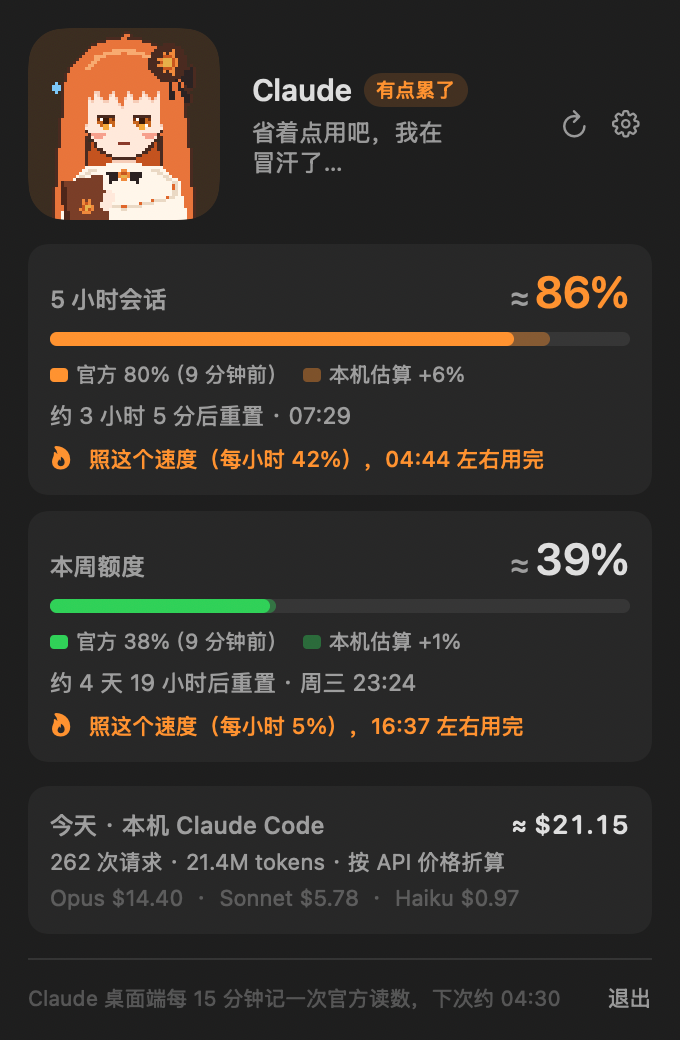
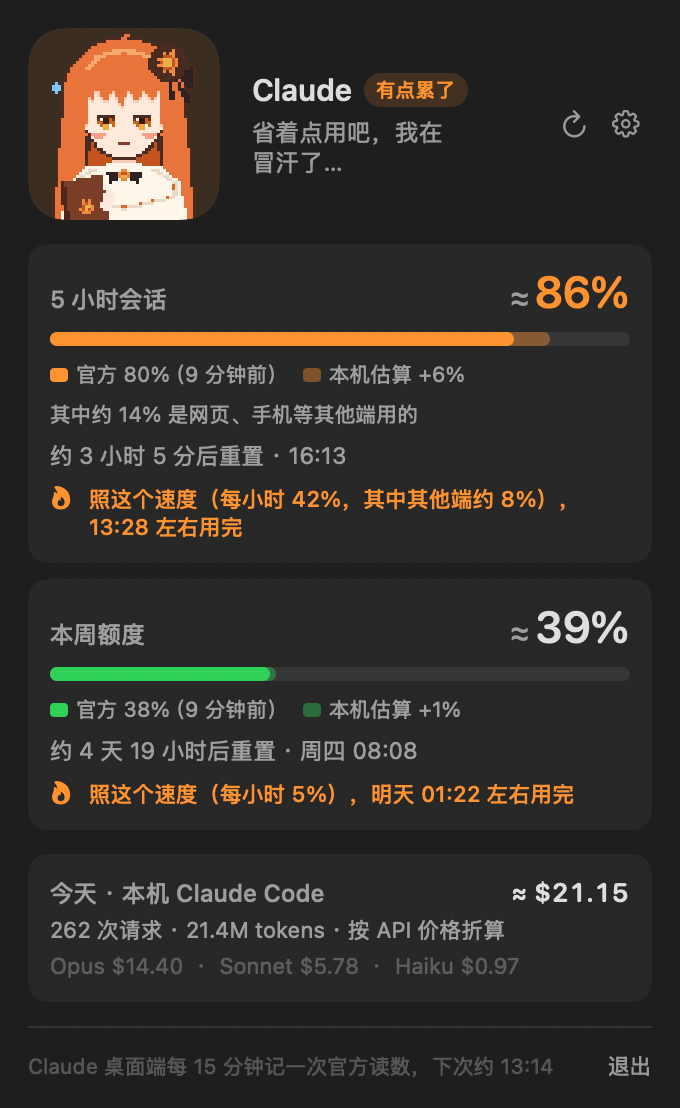
显示看不见的其他端用量
- 按相邻两次官方读数，把官方增量里本机 Claude Code 日志解释不了的部分算作其他端（网页、手机、桌面端聊天）用量；本机同时在用时要多出门槛才算，服务器计数延迟留 5 分钟余量
- 面板标出每个窗口里其他端用了多少，消耗速度和「几点用完」也算上这部分
- 学换算率时跳过同时在其他端用过的区间；usage_lab.py 同步门槛，backtest 和 App 的学法一致
- 窗口开始前没有 0 的官方读数时，从窗口里第一次读数算起，不把推算偏晚的开始之前的用量当成其他端
- 更新 README 的面板截图（假数据）

diff --git a/QuotaPet/Sources/QuotaPetChecks/main.swift b/QuotaPet/Sources/QuotaPetChecks/main.swift
@@ -253,6 +253,49 @@ do {
     check(manual.startedAt == at(23, 18) && manual.resetsAt == at(30, 18), "手动指定的每周重置时间每 7 天循环")
 }
 
+// MARK: - 其他端用量
+
+do {
+    /// 值 pct 个百分点的请求（percentOf = usd × 100）
+    func req(_ t: Date, _ pct: Double) -> ClaudeRequest {
+        ClaudeRequest(id: UUID().uuidString, time: t, family: .opus, tokens: TokenCounts(output: Int(pct * 500)))
+    }
+    let percentOf: (ClaudeRequest) -> Double = { $0.usd * 100 }
+    let reqs = [req(at(20, 10), 3), req(at(20, 10, 38), 5), req(at(20, 11, 15), 2)]
+    let readings = [S(time: at(20, 10, 10), value: 3), S(time: at(20, 10, 25), value: 9), S(time: at(20, 10, 40), value: 15),
+                    S(time: at(20, 10, 55), value: 16), S(time: at(20, 11, 10), value: 20), S(time: at(20, 11, 25), value: 30)]
+    let segments = OtherUsage.segments(start: at(20, 10), readings: readings, requests: reqs, percentOf: percentOf)
+    // 10:10 本机 3 对上；10:25 本机没有请求，+6 全是其他端；10:40 本机 5、官方 6，差 1 是误差；
+    // 10:55 +1 紧跟在 10:38 的请求后面，是服务器计数慢；11:10 本机没有请求，+4；11:25 本机 2、官方 10，多出 8
+    check(segments.count == 3 && zip(segments, [6.0, 4, 8]).allSatisfy { near($0.percent, $1) } && segments.first?.start == at(20, 10, 10),
+          "逐段找出其他端用量：\(segments.map(\.percent))")
+    check(near(OtherUsage.burnPerHour(segments, from: at(20, 10, 55), now: at(20, 11, 25), minSpan: 600), 24, 1e-6),
+          "其他端每小时：半小时里 4 + 8 = 12")
+    check(near(OtherUsage.burnPerHour(segments, from: at(20, 11), now: at(20, 11, 30), minSpan: 600), 21.3333, 1e-3),
+          "跨边界的段按时间比例摊，最近一次读数之后看不到的按 0 算：(4 × 2/3 + 8) ÷ 30 分钟")
+    let wobble = [S(time: at(20, 10, 10), value: 5), S(time: at(20, 10, 25), value: 3), S(time: at(20, 10, 40), value: 5)]
+    let wobbled = OtherUsage.segments(start: at(20, 10), readings: wobble, requests: [], percentOf: percentOf)
+    check(wobbled.count == 1 && near(wobbled.first?.percent, 5), "读数往回掉又回来，不算新用量")
+    let twin = OtherUsage.segments(start: at(20, 10), readings: [S(time: at(20, 10, 10), value: 3), S(time: at(20, 10, 10), value: 5)],
+                                   requests: [], percentOf: percentOf)
+    check(twin.count == 1 && OtherUsage.burnPerHour(twin, from: at(20, 10), now: at(20, 10, 30), minSpan: 600).isFinite,
+          "同一时刻的两条读数不会产生长度为 0 的段")
+
+    let provider = ClaudeProvider(historyURL: URL(fileURLWithPath: "/nonexistent/h.json"),
+                                  projectsURL: URL(fileURLWithPath: "/nonexistent/projects"), archiveURL: nil)
+    func window(_ series: [S], live: Bool = true) -> UsageWindow {
+        provider.buildWindow(id: "five_hour", title: "", shortTitle: "", duration: fiveHours, series: series,
+                             requests: [reqs[0]], scale: 1, percentOf: percentOf, resetAnchor: nil, live: live, now: at(20, 10, 30))
+    }
+    let zero = [S(time: at(20, 9, 30), value: 0)]  // 窗口开始前读数确实是 0
+    let w = window(zero + [S(time: at(20, 10, 10), value: 10), S(time: at(20, 10, 25), value: 16)])
+    check(near(w.otherPercent, 13) && near(w.otherBurnPerHour, 26, 1e-6) && near(w.burnPerHour, 26, 1e-6),
+          "从 0 算起：10:10 本机 3、官方 10，多 7；10:25 本机没有请求，+6；速度 13 ÷ 30 分钟：\(w.otherPercent) \(w.burnPerHour ?? -1)")
+    let midway = window([S(time: at(20, 10, 10), value: 40), S(time: at(20, 10, 25), value: 46)])
+    check(near(midway.otherPercent, 6), "开始前没有 0 的读数（记录从窗口中间开始）：第一次读数之前的 40% 不算其他端：\(midway.otherPercent)")
+    check(window(zero + Array(readings.prefix(2)), live: false).otherPercent == 0, "关掉实时估算时也不算其他端")
+}
+
 // MARK: - 什么时候显示
 
 check(MenuBarVisibility.withClaude.shouldShow(claudeRunning: true, pinned: false), "Claude 开着就显示")
@@ -302,6 +345,11 @@ do {
     older.end = at(25, 4)  // 早 6 小时 = 两个半衰期，权重 1/4：(0.5 + 0.8) ÷ (1 + 4)
     let halfLife = RateLearner.learn([older, newer], delta: \.sessionDelta, prior: 0.31, priorUSD: 0.0001)
     check(near(halfLife.usdPerPercent, 0.26, 1e-4), "半衰期 3 小时：\(halfLife.usdPerPercent)")
+    var pure = intervals[0], mixed = intervals[1]
+    pure.end = at(25, 10); pure.usd = 3; pure.sessionFrom = 0; pure.sessionTo = 10           // $0.3 / 1%
+    mixed.end = at(25, 10, 15); mixed.usd = 0.3; mixed.sessionFrom = 10; mixed.sessionTo = 20 // 本机只够 1%，官方涨了 10%
+    let skip = RateLearner.learn([pure, mixed], delta: \.sessionDelta, prior: 0.31, priorUSD: 0.0001)
+    check(near(skip.usdPerPercent, 0.3, 1e-3) && skip.intervals == 1, "同时在其他端用过的区间不拿来学：\(skip)")
 
     let dir = FileManager.default.temporaryDirectory.appendingPathComponent("quotapet-archive-\(UUID().uuidString)")
     let url = dir.appendingPathComponent("intervals.jsonl")

diff --git a/QuotaPet/Sources/QuotaPetCore/Claude/OtherUsage.swift b/QuotaPet/Sources/QuotaPetCore/Claude/OtherUsage.swift
@@ -1,0 +1,62 @@
+import Foundation
+
+/// 其他端用量：官方读数涨了、本机 Claude Code 日志却解释不了的部分，也就是网页、手机、桌面端聊天等的用量。
+///
+/// 按相邻两次官方读数逐段算「官方增量 − 这段时间本机请求的估算」。官方读数是整数、估算也有误差，所以：
+/// - 这段时间里（连同开始前 5 分钟，服务器计数可能慢一点）本机一个请求都没有：官方涨多少都算其他端；
+/// - 否则要多出 threshold 以上才算，免得把取整和估算误差当成其他端。
+/// 用真实数据看过：只用 Claude Code 的时段里，逐段的差值都在这个门槛以内。
+public enum OtherUsage {
+    public struct Segment: Equatable, Sendable {
+        public var start: Date
+        public var end: Date
+        /// 这一段里其他端用了多少个百分点
+        public var percent: Double
+    }
+
+    /// 本机有请求时，官方增量要比本机估算多出这么多才算其他端：取整误差 ±1，估算误差约 20%。
+    /// 与 usage_lab.py 的 OTHER_THRESHOLD 一致
+    public static func threshold(local: Double) -> Double { 2 + 0.2 * local }
+
+    /// 服务器计数可能比请求慢一点：这么久以内的本机请求，也可能算进下一段
+    static let lag: TimeInterval = 5 * 60
+
+    /// 从 start（那时读数是 startValue）往后，逐段比较 readings（按时间排序，都在 start 之后）。
+    /// start 是窗口开始时（0），开启窗口的那个请求也算进第一段。requests 按时间排序，percentOf 把一个请求换算成这个窗口的百分点
+    static func segments(start: Date, startValue: Double = 0, readings: [UsageSample], requests: [ClaudeRequest],
+                         percentOf: (ClaudeRequest) -> Double) -> [Segment] {
+        var result: [Segment] = []
+        var from = start
+        var high = startValue  // 读数偶尔会往回掉一点（取整），按最高的算，免得回升时被当成新用量
+        var lo = 0
+        for reading in readings where reading.time > from {  // 时间戳重复的读数跳过，不然会出现长度为 0 的段
+            while lo < requests.count, requests[lo].time <= from.addingTimeInterval(-lag) { lo += 1 }
+            var local = 0.0
+            var nearby = false
+            var i = lo
+            while i < requests.count, requests[i].time <= reading.time {
+                nearby = true
+                // 第一段包含开启窗口的那个请求
+                if requests[i].time > from || (from == start && requests[i].time == start) { local += percentOf(requests[i]) }
+                i += 1
+            }
+            let excess = reading.value - high - local
+            if excess > (nearby ? threshold(local: local) : 0.5) {
+                result.append(Segment(start: from, end: reading.time, percent: excess))
+            }
+            from = reading.time
+            high = max(high, reading.value)
+        }
+        return result
+    }
+
+    /// [from, now] 这段时间里其他端每小时用多少个百分点，和本机的消耗速度一样按整段时间平均。
+    /// 最近一次官方读数之后的其他端用量还看不到，按 0 算；跨过 from 的段按时间比例摊；时间太短时至少按 minSpan 算
+    static func burnPerHour(_ segments: [Segment], from: Date, now: Date, minSpan: TimeInterval) -> Double {
+        var sum = 0.0
+        for s in segments where s.end > from {
+            sum += s.percent * s.end.timeIntervalSince(max(s.start, from)) / s.end.timeIntervalSince(s.start)
+        }
+        return sum * 3600 / max(now.timeIntervalSince(from), minSpan)
+    }
+}

diff --git a/QuotaPet/Sources/QuotaPetCore/Claude/ClaudeProvider.swift b/QuotaPet/Sources/QuotaPetCore/Claude/ClaudeProvider.swift
@@ -198,17 +198,36 @@ public final class ClaudeProvider: UsageProvider, @unchecked Sendable {
             percent = min(percent, 99)
         }
 
+        // 其他端用量：当前窗口里官方读数涨了、本机日志解释不了的部分
+        var other: [OtherUsage.Segment] = []
+        if live, let window = current {
+            let readings = series.filter { $0.time > window.start && $0.time <= now }
+            let local: (ClaudeRequest) -> Double = { percentOf($0) * scale }
+            // 窗口开始时是 0 只是推算的：开始前最后一次官方读数确实是 0 才从窗口开始算；不然从窗口里第一次读数算起，
+            // 免得窗口开始推算得偏晚（比如桌面端的记录是从一周中间开始的）时，把之前的用量都当成其他端
+            if let first = readings.first, series.last(where: { $0.time <= window.start })?.value != 0 {
+                other = OtherUsage.segments(start: first.time, startValue: first.value, readings: Array(readings.dropFirst()),
+                                            requests: requests, percentOf: local)
+            } else {
+                other = OtherUsage.segments(start: window.start, readings: readings, requests: requests, percentOf: local)
+            }
+        }
+
         // 5 小时窗口看最近 30 分钟的速度；每周窗口看最近 24 小时，不然一会儿猛用就会误报「几小时后用完」
         let lookback: TimeInterval = duration > 86400 ? 86400 : 1800
         var burn: Double?
+        var otherBurn: Double?
         if live {
             let from = max(now.addingTimeInterval(-lookback), current?.start ?? .distantPast)
-            burn = added(after: from) * 3600 / max(now.timeIntervalSince(from), lookback / 3)
+            let otherPerHour = OtherUsage.burnPerHour(other, from: from, now: now, minSpan: lookback / 3)
+            otherBurn = otherPerHour
+            burn = added(after: from) * 3600 / max(now.timeIntervalSince(from), lookback / 3) + otherPerHour
         }
 
         return UsageWindow(id: id, title: title, shortTitle: shortTitle, duration: duration, percent: percent,
                            official: official, officialAt: officialAt, limitReported: limitReported, startedAt: current?.start,
-                           resetsAt: current?.end, burnPerHour: burn, burnLookback: lookback)
+                           resetsAt: current?.end, otherPercent: other.reduce(0) { $0 + $1.percent },
+                           burnPerHour: burn, otherBurnPerHour: otherBurn, burnLookback: lookback)
     }
 
     func todaySummary(_ requests: [ClaudeRequest], now: Date) -> ActivitySummary {

diff --git a/QuotaPet/Sources/QuotaPetCore/Claude/RateLearner.swift b/QuotaPet/Sources/QuotaPetCore/Claude/RateLearner.swift
@@ -4,7 +4,7 @@ import Foundation
 ///
 /// 换算率 = Σ 权重 × 本机额度加权花费 ÷ Σ 权重 × 官方增量：
 /// - 只用本机确实在用（≥ $0.02）、中间没有重置的区间；纯网页端的区间没有本机花费，自动排除。
-///   旧版本记下的、没有缓存读花费的区间也不用。
+///   同时在其他端用过、官方涨得明显比本机多的区间，以及旧版本记下的、没有缓存读花费的区间也不用。
 /// - 越近的区间权重越大（半衰期 3 小时）：同一个会话里换算率也会慢慢变，要跟得上。
 ///   回测（usage_lab.py backtest）：半衰期 3 小时比 2 天的误差小，往回跳的次数也少。
 ///   时间从最近一个区间往前算，隔几天不用也不会把学到的忘掉。
@@ -28,14 +28,21 @@ public enum RateLearner {
         guard let latest = usable.map(\.end).max() else {
             return Result(usdPerPercent: prior, intervals: 0, latest: nil)
         }
-        var cost = priorUSD
-        var gained = priorUSD / prior
-        for item in usable {
-            let weight = pow(0.5, latest.timeIntervalSince(item.end) / halfLife)
-            cost += weight * item.usd
-            gained += weight * item.delta
+        func fit(_ items: [(end: Date, usd: Double, delta: Double)]) -> Double {
+            var cost = priorUSD
+            var gained = priorUSD / prior
+            for item in items {
+                let weight = pow(0.5, latest.timeIntervalSince(item.end) / halfLife)
+                cost += weight * item.usd
+                gained += weight * item.delta
+            }
+            return gained > 0 ? cost / gained : prior
         }
-        let rate = gained > 0 ? cost / gained : prior
-        return Result(usdPerPercent: min(max(rate, prior / 10), prior * 10), intervals: usable.count, latest: latest)
+        // 同时在网页 / 手机上用过的区间，官方涨得比本机花费能解释的多一截（见 OtherUsage），不能拿来学：
+        // 先粗算一次，去掉这种区间再算
+        let rough = fit(usable)
+        let clean = usable.filter { $0.delta - $0.usd / rough <= OtherUsage.threshold(local: $0.usd / rough) }
+        let rate = clean.isEmpty ? rough : fit(clean)
+        return Result(usdPerPercent: min(max(rate, prior / 10), prior * 10), intervals: clean.count, latest: latest)
     }
 }

diff --git a/QuotaPet/Sources/QuotaPet/Tools/PreviewRenderer.swift b/QuotaPet/Sources/QuotaPet/Tools/PreviewRenderer.swift
@@ -139,10 +139,10 @@ enum PreviewRenderer {
 
     static func sampleSnapshots(now: Date) -> [(String, UsageSnapshot)] {
         func window(_ id: String, _ title: String, _ duration: TimeInterval, _ percent: Double, official: Double,
-                    resetIn: TimeInterval, burn: Double) -> UsageWindow {
+                    resetIn: TimeInterval, burn: Double, other: Double = 0, otherBurn: Double? = nil) -> UsageWindow {
             UsageWindow(id: id, title: title, shortTitle: "", duration: duration, percent: percent, official: official,
                         officialAt: now.addingTimeInterval(-9 * 60), startedAt: now.addingTimeInterval(resetIn - duration),
-                        resetsAt: now.addingTimeInterval(resetIn), burnPerHour: burn,
+                        resetsAt: now.addingTimeInterval(resetIn), otherPercent: other, burnPerHour: burn, otherBurnPerHour: otherBurn,
                         burnLookback: duration > 86400 ? 86400 : 1800)
         }
         let today = ActivitySummary(
@@ -158,7 +158,8 @@ enum PreviewRenderer {
         return [
             ("calm", snapshot([window("five_hour", "5 小时会话", 5 * 3600, 27.3, official: 24, resetIn: 2 * 3600 + 14 * 60, burn: 6),
                                window("seven_day", "本周额度", week, 25.4, official: 25, resetIn: 4 * 86400 + 19 * 3600, burn: 0.7)])),
-            ("busy", snapshot([window("five_hour", "5 小时会话", 5 * 3600, 86.2, official: 80, resetIn: 3 * 3600 + 5 * 60, burn: 42),
+            ("busy", snapshot([window("five_hour", "5 小时会话", 5 * 3600, 86.2, official: 80, resetIn: 3 * 3600 + 5 * 60, burn: 42,
+                                     other: 14, otherBurn: 8),
                                window("seven_day", "本周额度", week, 38.9, official: 38, resetIn: 4 * 86400 + 19 * 3600, burn: 5)])),
             ("limited", snapshot([window("five_hour", "5 小时会话", 5 * 3600, 100, official: 100, resetIn: 83 * 60, burn: 0),
                                   window("seven_day", "本周额度", week, 47, official: 47, resetIn: 4 * 86400 + 19 * 3600, burn: 0)])),

diff --git a/QuotaPet/Sources/QuotaPet/Views/OverviewView.swift b/QuotaPet/Sources/QuotaPet/Views/OverviewView.swift
@@ -152,23 +152,34 @@ struct WindowCard: View {
             UsageBar(percent: window.clampedPercent, official: window.official, tint: Level.bar(window.percent))
                 .padding(.bottom, 1)
             legend
+            if window.otherPercent >= 1 {
+                Text("其中约 \(Int(window.otherPercent.rounded()))% 是网页、手机等其他端用的")
+                    .font(.system(size: 10.5))
+                    .foregroundStyle(.secondary)
+            }
             Text(resetText)
                 .font(.system(size: 11.5))
                 .foregroundStyle(.secondary)
             if let exhaustion = window.projectedExhaustion(now: now), let burn = window.burnPerHour {
-                Label("照这个速度（每小时 \(Int(burn.rounded()))%），\(Fmt.clock(exhaustion, now: now)) 左右用完",
+                Label("照这个速度（每小时 \(Int(burn.rounded()))%\(otherBurnText)），\(Fmt.clock(exhaustion, now: now)) 左右用完",
                       systemImage: "flame.fill")
                     .font(.system(size: 11, weight: .medium))
                     .foregroundStyle(Color(nsColor: .systemOrange))
                     .fixedSize(horizontal: false, vertical: true)
             } else if let burn = window.burnPerHour, burn >= 1, window.percent < 100 {
-                Text("\(lookbackText)：每小时约 \(Int(burn.rounded()))%")
+                Text("\(lookbackText)：每小时约 \(Int(burn.rounded()))%\(otherBurnText)")
                     .font(.system(size: 11))
                     .foregroundStyle(.secondary)
             }
         }
         .padding(11)
         .background(RoundedRectangle(cornerRadius: 10, style: .continuous).fill(Color.primary.opacity(0.05)))
+    }
+
+    /// 消耗速度里有其他端的部分时，补一句「，其中其他端约 6%」
+    private var otherBurnText: String {
+        guard let other = window.otherBurnPerHour, other >= 1 else { return "" }
+        return "，其中其他端约 \(Int(other.rounded()))%"
     }
 
     private var lookbackText: String {

diff --git a/QuotaPet/Sources/QuotaPetCore/Models.swift b/QuotaPet/Sources/QuotaPetCore/Models.swift
@@ -27,14 +27,19 @@ public struct UsageWindow: Identifiable, Equatable, Sendable {
     /// 当前窗口的开始 / 重置时间（推算值）；窗口还没开始时为 nil
     public var startedAt: Date?
     public var resetsAt: Date?
-    /// 最近一段时间（burnLookback）的消耗速度，百分点 / 小时（只统计本机 Claude Code）
+    /// 这个窗口里网页、手机、桌面端聊天等其他端用了多少（已经包含在官方读数里，见 OtherUsage）
+    public var otherPercent: Double
+    /// 最近一段时间（burnLookback）的消耗速度，百分点 / 小时：本机 Claude Code + 官方读数里看出来的其他端
     public var burnPerHour: Double?
+    /// burnPerHour 里其他端的部分
+    public var otherBurnPerHour: Double?
     /// 消耗速度按多长时间算：5 小时窗口看最近 30 分钟，每周窗口看最近 24 小时
     public var burnLookback: TimeInterval
 
     public init(id: String, title: String, shortTitle: String, duration: TimeInterval, percent: Double,
                 official: Double? = nil, officialAt: Date? = nil, limitReported: Bool = false, startedAt: Date? = nil,
-                resetsAt: Date? = nil, burnPerHour: Double? = nil, burnLookback: TimeInterval = 1800) {
+                resetsAt: Date? = nil, otherPercent: Double = 0, burnPerHour: Double? = nil, otherBurnPerHour: Double? = nil,
+                burnLookback: TimeInterval = 1800) {
         self.id = id
         self.title = title
         self.shortTitle = shortTitle
@@ -45,7 +50,9 @@ public struct UsageWindow: Identifiable, Equatable, Sendable {
         self.limitReported = limitReported
         self.startedAt = startedAt
         self.resetsAt = resetsAt
+        self.otherPercent = otherPercent
         self.burnPerHour = burnPerHour
+        self.otherBurnPerHour = otherBurnPerHour
         self.burnLookback = burnLookback
     }
 

diff --git a/QuotaPet/Sources/QuotaPet/Tools/DumpCommand.swift b/QuotaPet/Sources/QuotaPet/Tools/DumpCommand.swift
@@ -49,9 +49,13 @@ enum DumpCommand {
             } else {
                 print("  窗口还没开始（下次使用时开始计时）")
             }
+            if w.otherPercent >= 0.5 {
+                print(String(format: "  其中网页、手机等其他端约 %.1f%%", w.otherPercent))
+            }
             if let burn = w.burnPerHour, burn > 0 {
                 let span = w.burnLookback >= 86400 ? "24 小时" : "\(Int(w.burnLookback / 60)) 分钟"
-                print(String(format: "  最近 %@ 消耗速度 %.1f%%/小时", span, burn))
+                let other = (w.otherBurnPerHour ?? 0) >= 0.05 ? String(format: "（其中其他端 %.1f%%）", w.otherBurnPerHour ?? 0) : ""
+                print(String(format: "  最近 %@ 消耗速度 %.1f%%/小时", span, burn) + other)
             }
             if let t = w.projectedExhaustion(now: now) {
                 print("  ⚠ 照这个速度 \(Fmt.clock(t, now: now)) 会用完")

diff --git a/usage_lab.py b/usage_lab.py
@@ -41,6 +41,8 @@ PRICES = {
 CACHE_READ_WEIGHT = 0.5
 # 起始换算率，额度加权美元 / 1%（与 ClaudeRates.starting 一致）
 STARTING = {"fh": 0.27, "sd": 2.0}
+# 官方增量比本机估算多出 a + b×本机估算 才算其他端（网页 / 手机）用量（与 OtherUsage.threshold 一致）
+OTHER_THRESHOLD = (2, 0.2)
 FIELDS = ("inp", "cw5", "cw1h", "cr", "out")
 FIELD_NAMES = {"inp": "输入", "cw5": "缓存写5m", "cw1h": "缓存写1h", "cr": "缓存读", "out": "输出"}
 
@@ -259,7 +261,15 @@ def cmd_calibrate(args):
 
 def cmd_backtest(args):
     """每个 15 分钟区间结束时，用之前的区间学到的换算率估算这段的官方增量，和实际增量比。
-    学习方式同 RateLearner：Σ权重×加权花费 ÷ Σ权重×增量，权重按半衰期从最近一个区间往前算，加 $2 的先验。"""
+    学习方式同 RateLearner：Σ权重×加权花费 ÷ Σ权重×增量，权重按半衰期从最近一个区间往前算，加 $2 的先验；
+    先粗算一次，去掉同时在其他端用过（官方涨得明显比本机多）的区间再算。"""
+
+    def fit(items, prior, latest):
+        spent, gained = 2.0, 2.0 / prior
+        for end, u, d in items:
+            w = 0.5 ** ((latest - end) / (args.half_life * 3600))
+            spent, gained = spent + w * u, gained + w * d
+        return spent / gained
     reqs = load_requests()
     snaps = [s for s in load_snapshots() if s[3] == "desktop"]
     for col, name in ((1, "5 小时"), (2, "每周")):
@@ -272,11 +282,14 @@ def cmd_backtest(args):
             if sum(cost(f, t) for f, t in tok.items()) < 0.02:  # 本机没在用
                 continue
             usd = sum(quota_cost(f, t, args.cache_weight) for f, t in tok.items())
-            spent, gained = 2.0, 2.0 / prior
-            for end, u, d in done:
-                w = 0.5 ** ((done[-1][0] - end) / (args.half_life * 3600))
-                spent, gained = spent + w * u, gained + w * d
-            est, actual = usd / (spent / gained), b[col] - a[col]
+            rate = prior
+            if done:
+                rough = fit(done, prior, done[-1][0])
+                a0, b0 = OTHER_THRESHOLD
+                clean = [x for x in done if x[2] - x[1] / rough <= a0 + b0 * x[1] / rough]
+                rate = fit(clean, prior, done[-1][0]) if clean else rough
+                rate = min(max(rate, prior / 10), prior * 10)  # 和 App 一样限制在起始值的 1/10～10 倍
+            est, actual = usd / rate, b[col] - a[col]
             errs.append(abs(est - actual))
             stale.append(actual)
             down += actual - est < -1

diff --git a/docs/PRODUCT_PLAN.md b/docs/PRODUCT_PLAN.md
@@ -44,12 +44,13 @@
 |---|---|---|---|
 | 官方 5 小时 % / 每周 % | Claude 桌面端 `~/Library/Application Support/Claude/plan-usage-history.json` | 桌面端运行时每 15 分钟 | 整数，官方值 |
 | 两次官方读数之间的增量 | `~/.claude/projects/**/*.jsonl` 里 Claude Code 每个请求的 token | 实时（文件一变就重算） | 按自动学到的换算率折算的估算值 |
+| 其他端（网页 / 手机 / 桌面端聊天）用量 | 官方增量减去同一段时间的本机估算，多出门槛以上的部分 | 每次官方读数 | 估算值；本机同时在用时只认明显多出来的部分 |
 | 重置时间 | 用活动时间 + 读数跳变推算；Claude Code 被限流时用日志里的限流消息 | — | 推算约 ±15 分钟，限流消息是精确值；每周重置时间可手动指定 |
 
 - 菜单栏显示的数 = 最近一次官方读数 + 之后本机用量的估算，面板里用 `≈` 标出估算部分。
 - **换算率自动学习 + 持续记录**：每 15 分钟的区间都存进本机记录（`~/Library/Application Support/QuotaPet/intervals.jsonl`），从全部记录里学「多少美元 ≈ 1%」（美元按 API 价格算，但缓存读按半价），越近的权重越大（半衰期 3 小时）。重启、隔几天不用都不会忘；没有记录时用起始值 $0.27。
 - **只有官方读数或限流消息能宣布「用完了」**：官方读数没到 100% 之前，估算值最多显示 99%。Claude Code 被限流时会在日志里写一条带 `quotaLimits` 的消息（哪个额度、几点恢复），这是服务器的原话，读到就直接算用完。
-- 网页端和手机端的用量不在本机日志里，要等下一次官方读数（最多 15 分钟）才会体现。
+- 网页端和手机端的用量不在本机日志里，要等下一次官方读数（最多 15 分钟）才会体现。读数到了以后，官方增量里本机日志解释不了的部分算作「其他端」用量：面板会标出每个窗口里其他端用了多少，消耗速度和「几点用完」也会算上它。
 - 备选方案（暂不做）：用 Claude Code 的登录凭据调官方 usage 接口，能拿到精确值和重置时间，但要读凭据，和原则 2 冲突。以后如果要做，也只做成用户主动开启的选项。
 
 ## 5. 版本路线
@@ -103,6 +104,12 @@
 - 缓存读在额度里大约只算 API 价格的一半，所以按 0.5 倍计（0.4–0.6 之间结果差不多）。缓存读和上下文长度是一起涨的，数据分不开「缓存读便宜」和「长上下文便宜」，但按缓存读打折对两种情况都管用。
 - 学习的半衰期从 2 天改成 3 小时，同一个会话里的变化也跟得上。用 `usage_lab.py backtest` 逐区间回测（每个区间只用它之前的数据学）：5 小时额度的平均误差和数字往回跳的次数都少了一半左右，单个区间的最大误差略有增加；每周额度本来就准，变化不大。起始值按新口径重新算过。样本主要是 Opus，数据多了要再回测一次。
 - Claude Code 被限流时，日志里有一条带 `quotaLimits` 的 synthetic 消息，写着限流类型和精确的恢复时间，和桌面端的读数对得上，App 现在直接用它。消息里没有账号信息，所以要和同一窗口的官方读数核对：对不上（多半是 Claude Code 和桌面端登的不是同一个账号）就不用。
+
+**2026-09-26 补充：把看不见的其他端用量显示出来**
+
+- 逐段对比官方增量和本机估算：只用 Claude Code 的时段里，差值都在取整和估算误差以内；在网页、手机上用的时段，官方会明显多涨一截。所以本机有请求时，要多出「2 个点 + 本机估算的 20%」才算其他端用量。这段时间里以及开始前 5 分钟本机都没有请求时，官方涨了就算，这 5 分钟是给服务器计数延迟留的余量。
+- 面板上每个窗口标出其他端用了多少；消耗速度和「几点用完」把这部分也算进去。
+- 同时在其他端用过的区间，官方涨幅混着两边的用量，不再拿来学换算率。回测显示，5 小时额度的误差和数字往回跳的次数又少了一点。
 
 ## 8. 风险与对策
 

diff --git a/CLAUDE.md b/CLAUDE.md
@@ -29,9 +29,10 @@ make run / make demo / make install
   - 换算率由 `RateLearner` 从 `IntervalArchive` 学出来（`~/Library/Application Support/QuotaPet/intervals.jsonl`，只追加，半衰期 3 小时），起始值 $0.27 / 1%。
   - 窗口的开始和重置时间由 `WindowInference` 推算；用户手动指定了每周重置时间时，按它往后每 7 天算一次。
   - Claude Code 被限流时会在日志里写一条 synthetic 消息，带 `quotaLimits`（`rateLimitType`、秒级 `resetsAt`）。扫描器把它记成 `ClaudeLimitEvent`：没到恢复时间前这个窗口直接算用完，重置时间以它为准。
+  - 其他端（网页、手机、桌面端聊天）用量由 `OtherUsage` 算：相邻两次官方读数之间，官方增量比本机估算多出门槛以上的部分。`RateLearner` 学换算率时也用同一个门槛，跳过这种混用的区间。
   - **不变量**：官方读数没到 100 时，估算值最多 99%。只有官方读数或限流消息能宣布「用完了」，免得宠物误睡、误发提醒。
 - **和 `usage_lab.py` 要保持一致的地方**，改一边就要改另一边：
-  - `ClaudePricing.prices` 对应 `PRICES`，`cacheReadQuotaWeight` 对应 `CACHE_READ_WEIGHT`，`ClaudeRates.starting` 对应 `STARTING`
+  - `ClaudePricing.prices` 对应 `PRICES`，`cacheReadQuotaWeight` 对应 `CACHE_READ_WEIGHT`，`ClaudeRates.starting` 对应 `STARTING`，`OtherUsage.threshold` 对应 `OTHER_THRESHOLD`
   - `ModelFamily.of` 对应 `family()`：按模型名里的子串匹配，名字里不含 fable、opus、sonnet、haiku 的新模型族不会计价，要加 case 和价格
   - `ClaudeTranscripts` 的解析规则：按 `message.id` 去重、同一个响应的各字段取最大值、跳过 synthetic 和写到一半的行（限流消息只有 App 读，usage_lab 不需要）
 - 改换算相关的逻辑之前，先看 `docs/PRODUCT_PLAN.md` 第 7 节的回归结论：所有模型用一个系数，思考程度（effort）不单独算，缓存读按半价。改完用 `python3 usage_lab.py backtest` 回测，和改之前比一比。
